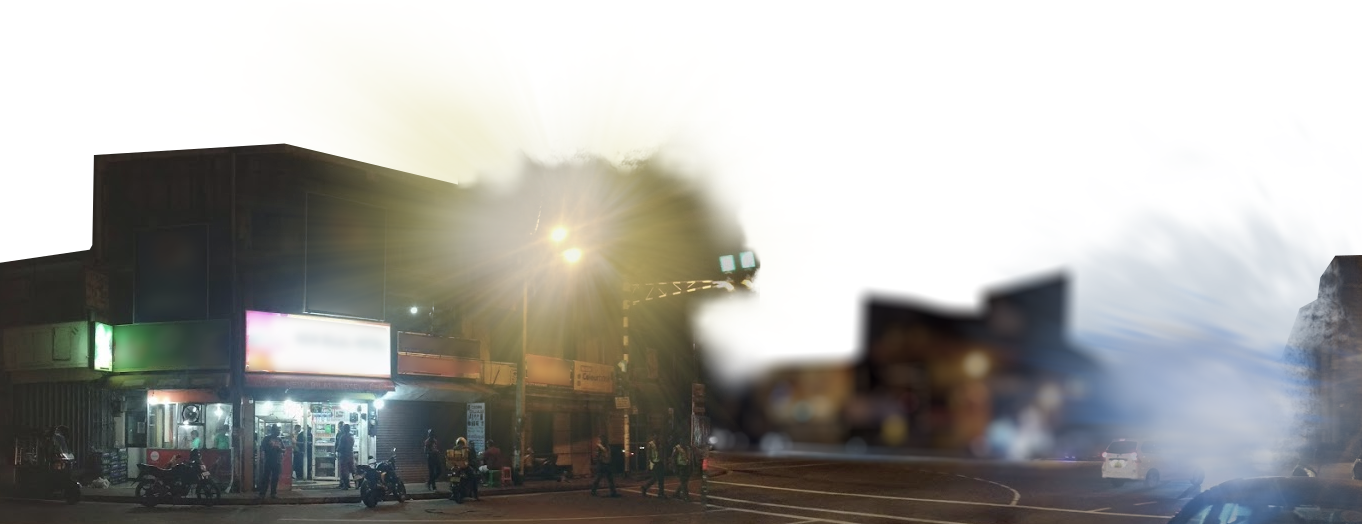
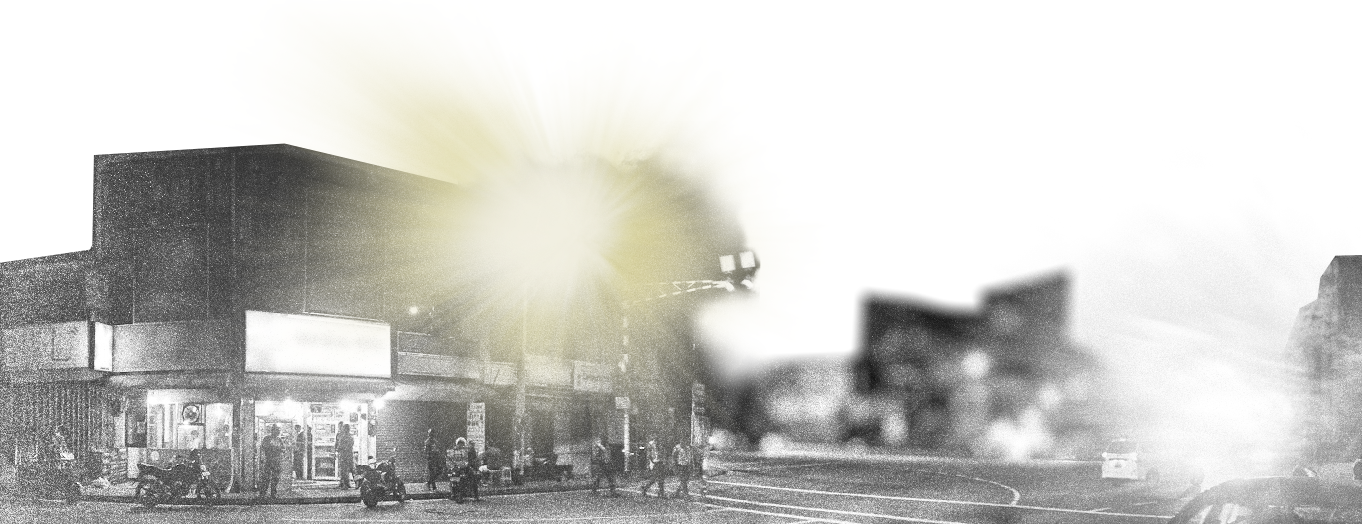
converted overlay to gray

diff --git a/assets/css/parallax.css b/assets/css/parallax.css
@@ -17,12 +17,6 @@
 
 }
 
-@media only screen and (max-width: 768px) {
-  /* For mobile phones: */
-  .parellax-overlay { 
-    background-image: url('../images/overlay-mobile.png');
-  }
-}
 
 @media only screen and (max-width: 481px) {
   /* For mobile phones: */
